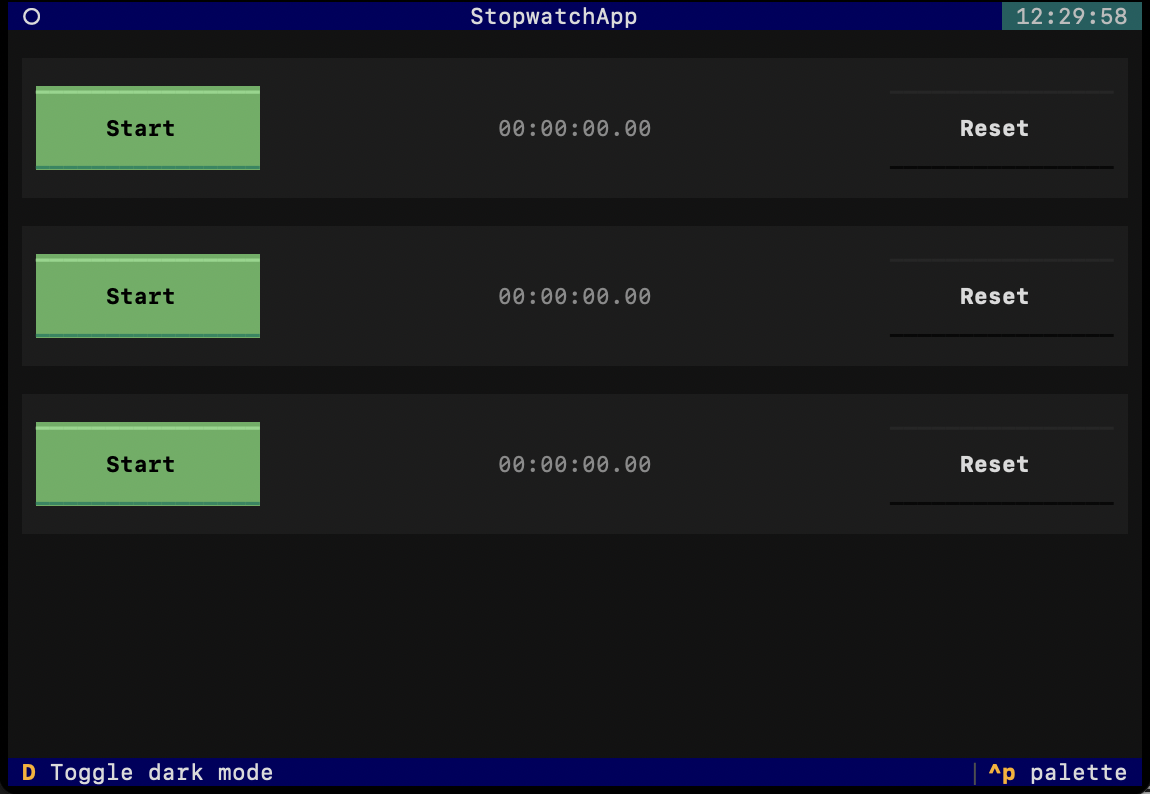
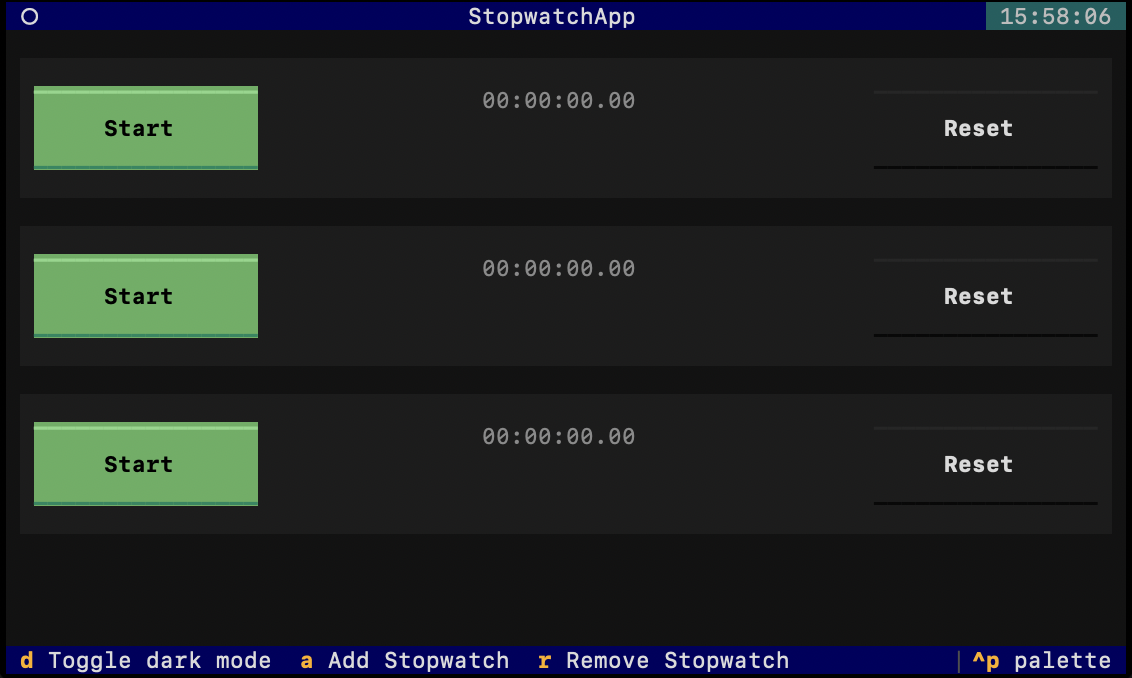
added new css,add/remove button and updated readme.md

diff --git a/stopwatch/stopwatch.css b/stopwatch/stopwatch.css
@@ -1,3 +1,4 @@
+/* 
 Stopwatch {
     layout: horizontal;
     margin: 1;
@@ -32,4 +33,61 @@ TimeDisplay {
 
 .started #stop{
     display: block;
+} 
+*/
+
+
+
+
+
+Stopwatch {
+    background: $boost;
+    height: 5;
+    margin: 1;
+    min-width: 50;
+    padding: 1;
+}
+
+TimeDisplay {   
+    text-align: center;
+    color: $foreground-muted;
+    height: 3;
+}
+
+Button {
+    width: 16;
+}
+
+#start {
+    dock: left;
+}
+
+#stop {
+    dock: left;
+    display: none;
+}
+
+#reset {
+    dock: right;
+}
+
+.started {
+    background: $success-muted;
+    color: $text;
+}
+
+.started TimeDisplay {
+    color: $foreground;
+}
+
+.started #start {
+    display: none
+}
+
+.started #stop {
+    display: block
+}
+
+.started #reset {
+    visibility: hidden
 }

diff --git a/stopwatch/stopwatch.py b/stopwatch/stopwatch.py
@@ -64,7 +64,9 @@ class Stopwatch(Static):
 
 class StopwatchApp(App):
     BINDINGS = [
-        ('D', 'toggle_dark_mode', 'Toggle dark mode')
+        ('d', 'toggle_dark_mode', 'Toggle dark mode'),
+        ('a', 'toggle_add_stopwatch', 'Add Stopwatch'),
+        ("r", "remove_stopwatch", "Remove Stopwatch")
     ]
 
     CSS_PATH = "stopwatch.css"
@@ -72,16 +74,34 @@ class StopwatchApp(App):
     def compose(self):
         yield Header(show_clock=True)
         yield Footer()
-        with VerticalScroll(id="stopwatches"):
-            yield Stopwatch()
-            yield Stopwatch()
-            yield Stopwatch()
+        yield VerticalScroll(
+            Stopwatch(), 
+            Stopwatch(), 
+            Stopwatch(), 
+            id="stopwatches"
+            )
+        # with VerticalScroll(id="stopwatches"):
+        #     yield Stopwatch()
+        #     yield Stopwatch()
+        #     yield Stopwatch()
 
     def action_toggle_dark_mode(self):
         if self.theme == 'textual-light':
             self.theme = 'textual-dark'
         else:
             self.theme = 'textual-light'
+
+    def action_toggle_add_stopwatch(self):
+        stopwatch = Stopwatch()
+        container = self.query_one("#stopwatches")
+        container.mount(stopwatch)
+        stopwatch.scroll_visible()
+
+    def action_remove_stopwatch(self):
+        stopwatches = self.query(Stopwatch)
+        if stopwatches:
+            stopwatches.last().remove()
+
 
 if __name__ == "__main__":
     StopwatchApp().run()

diff --git a/README.md b/README.md
@@ -10,6 +10,8 @@ A terminal-based stopwatch application with multiple instances. Features include
 
 - Start, stop, and reset functionality
 - Multiple stopwatches running simultaneously
+- Ability to add new stopwatches dynamically
+- Ability to remove stopwatches
 - Dark/light mode toggle
 - Time display in hours, minutes, and seconds format
 
@@ -59,7 +61,9 @@ python samples/greetApp.py
 
 ## Key Bindings
 
-- **D**: Toggle between dark and light mode (in the Stopwatch app)
+- **D**: Toggle between dark and light mode
+- **A**: Add a new stopwatch
+- **R**: Remove the last stopwatch
 
 ## Learning Resources
 
